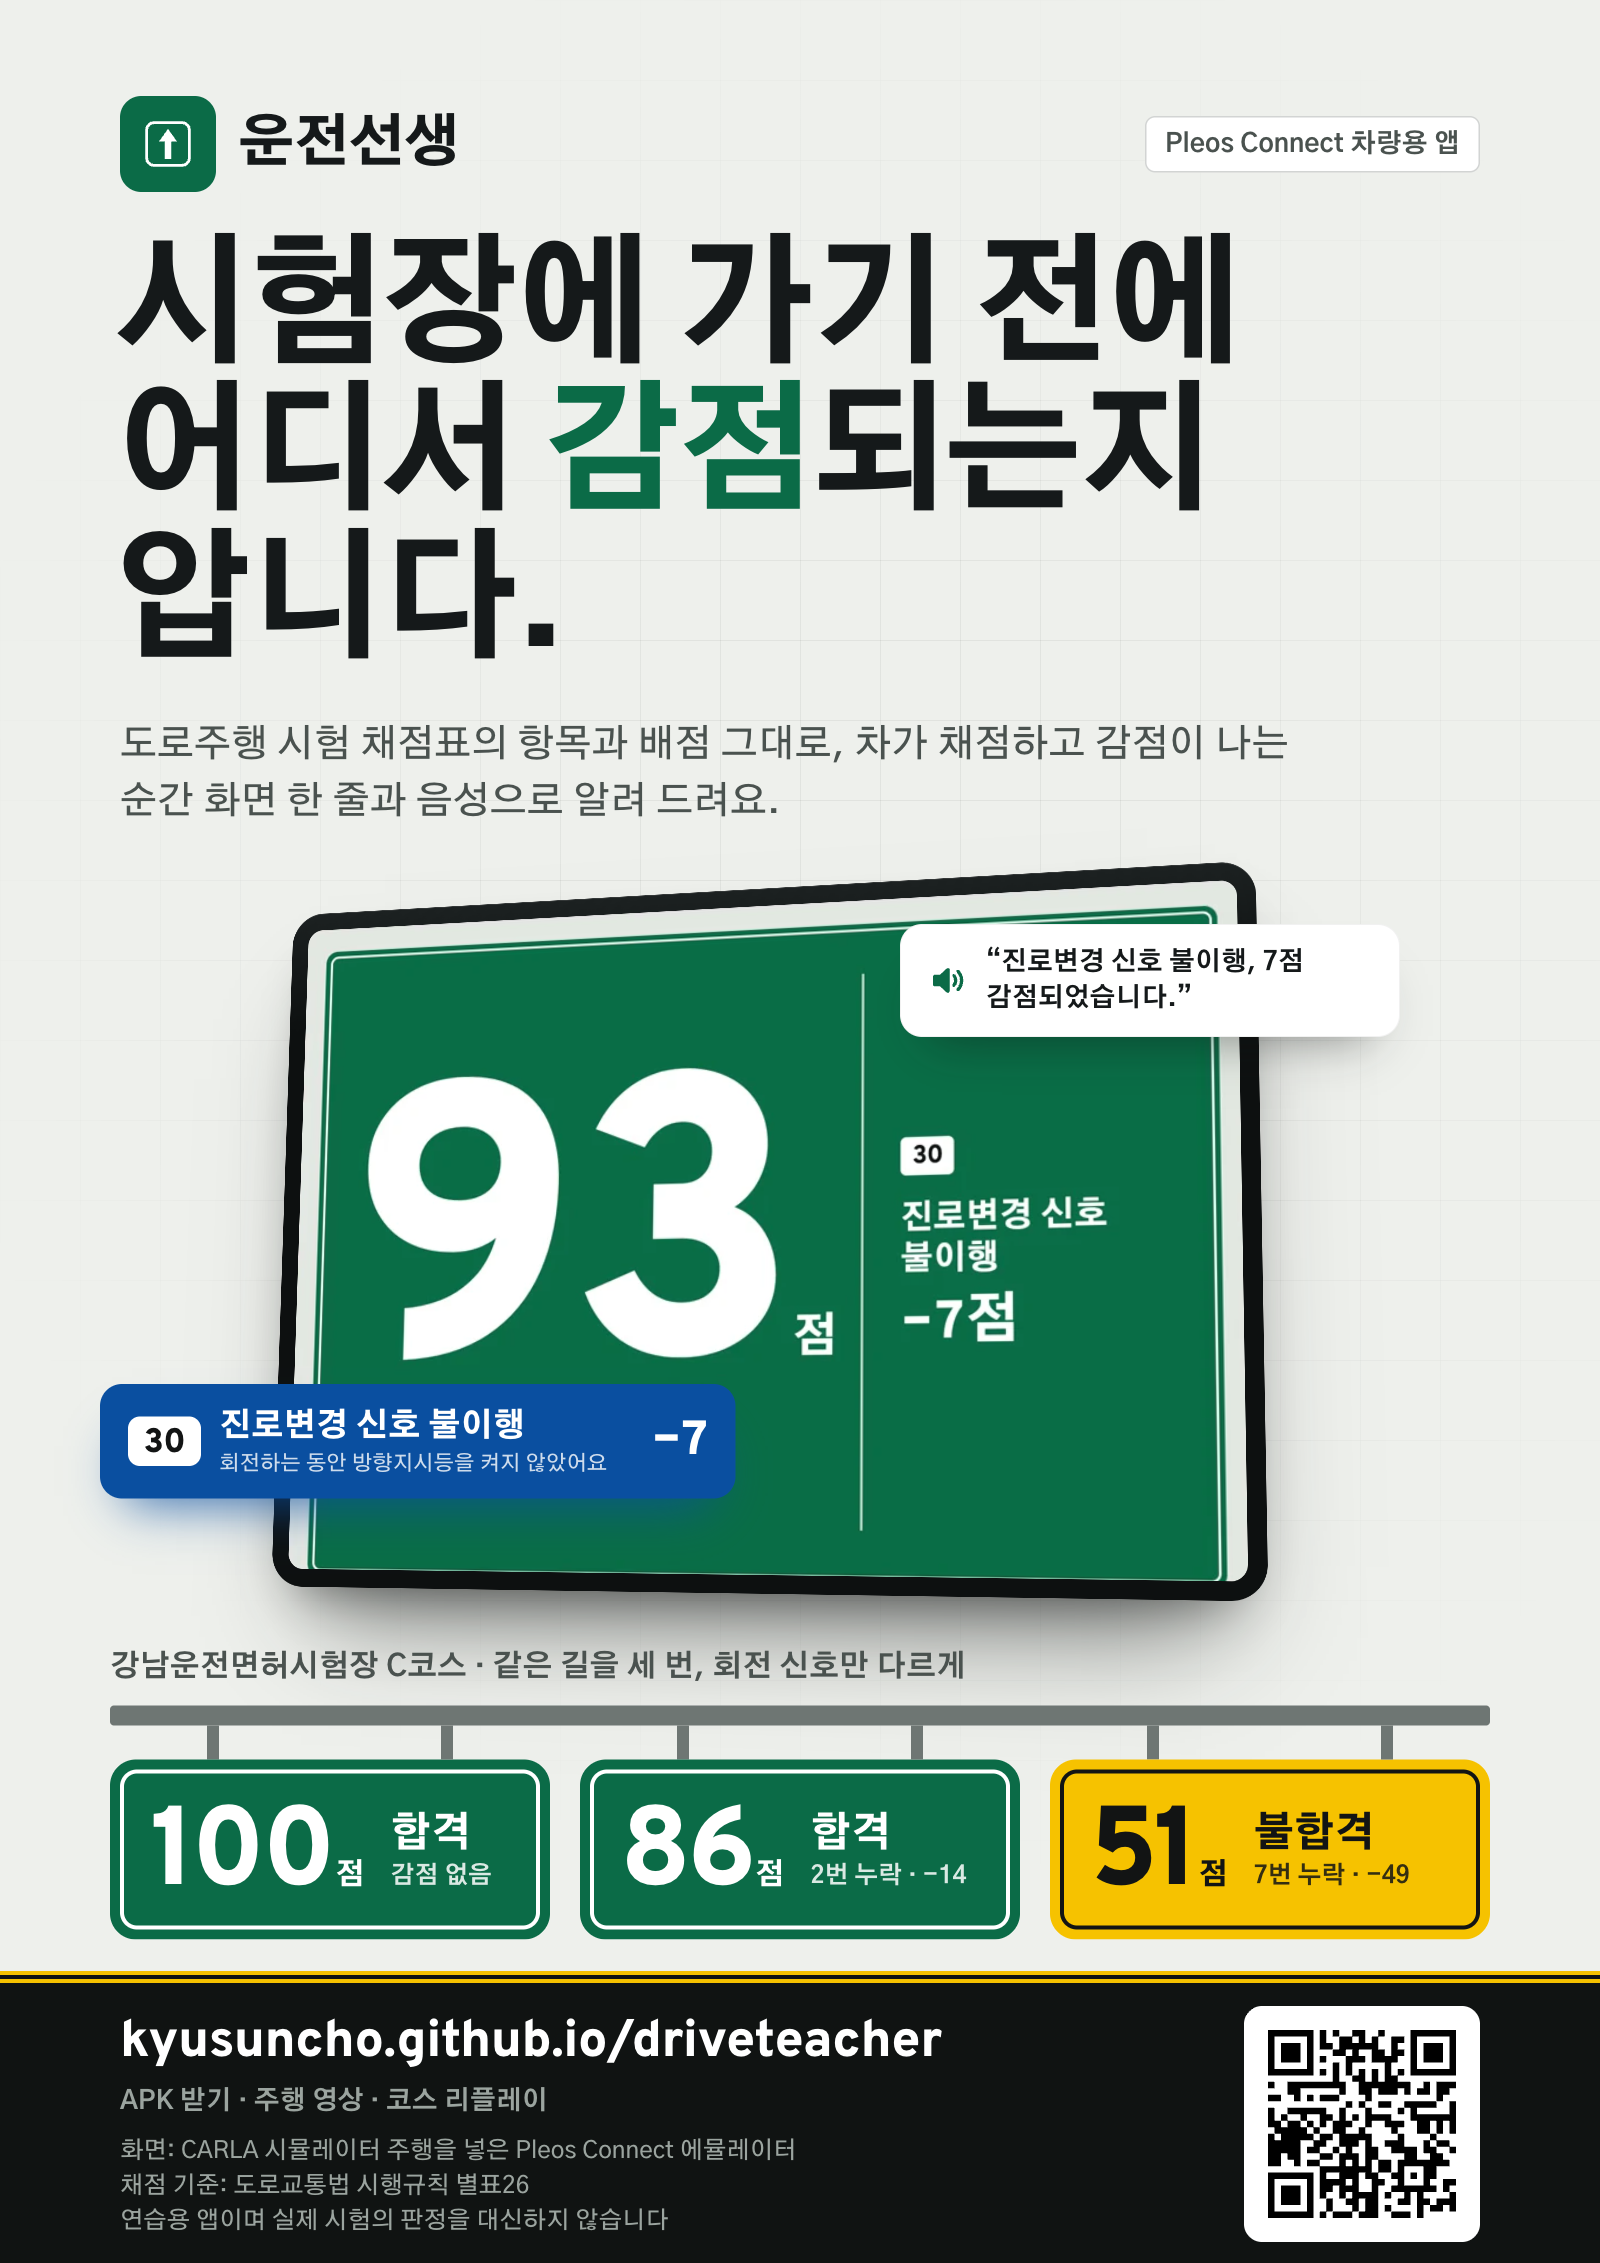
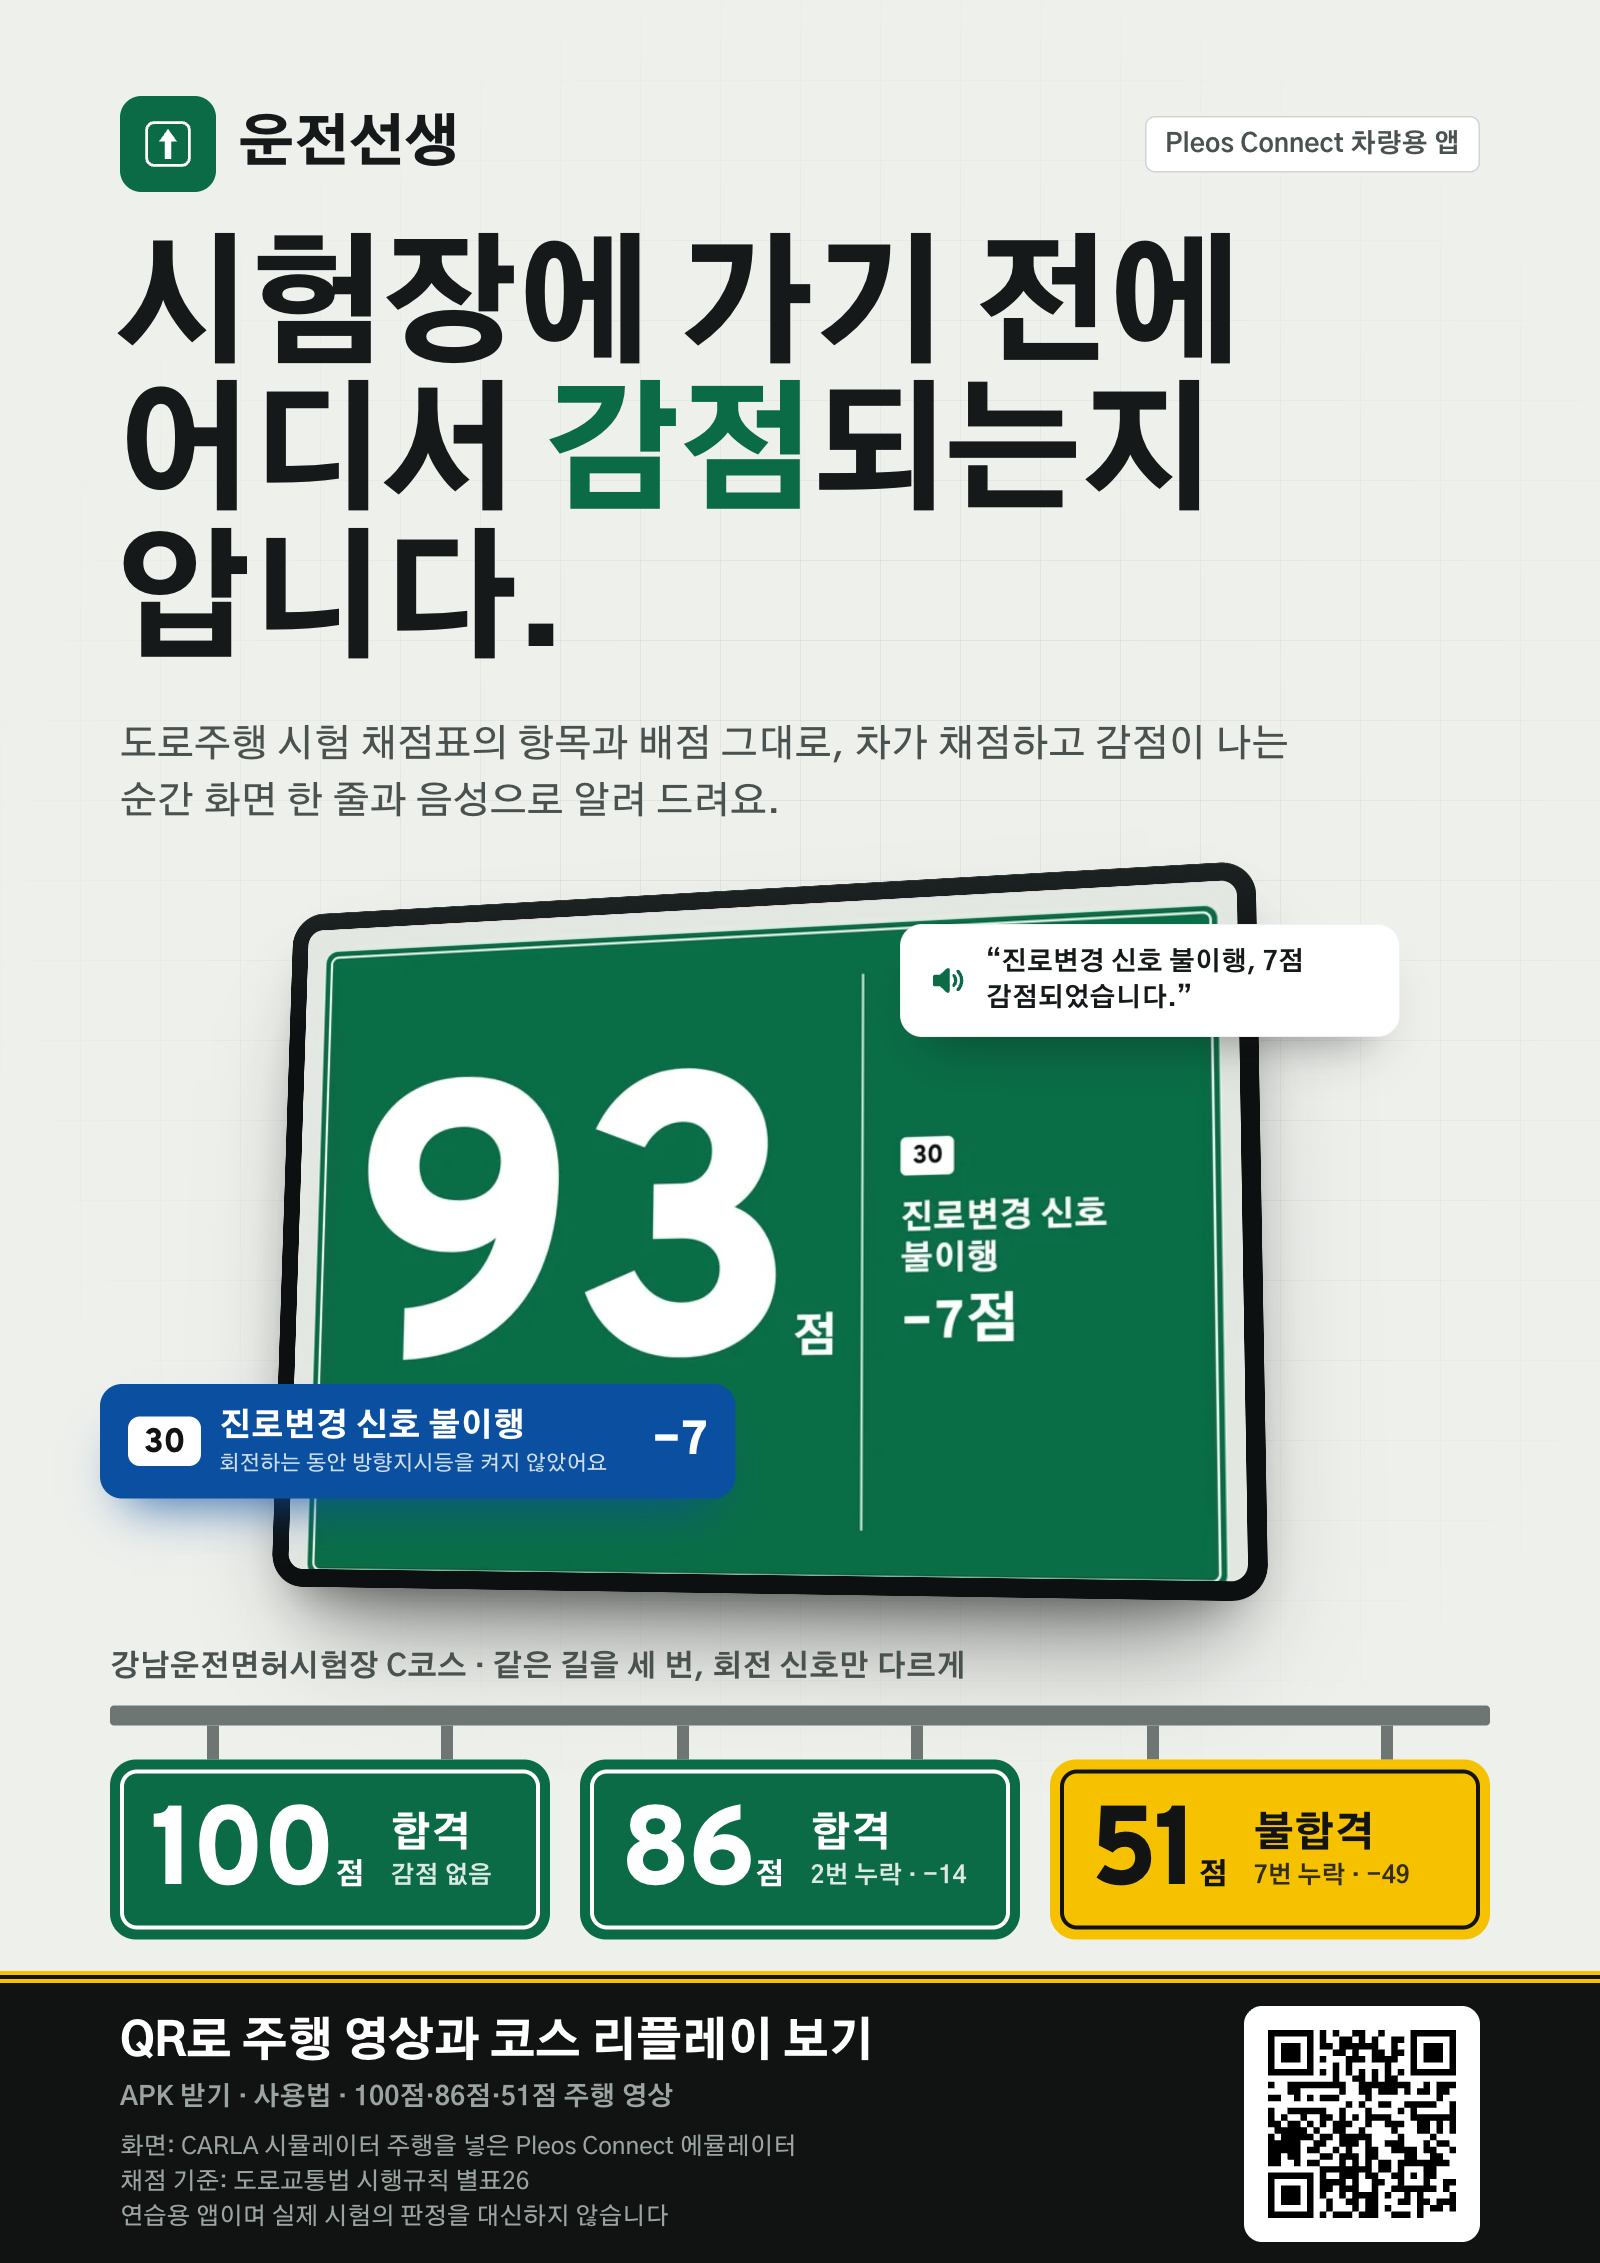
chore: leave the poster's link to its QR and drop the old README image
The portrait poster no longer prints the page address; the QR carries it.
driveteacher-summary-poster.png was the README image the banner replaced.

Changed region(s): [[0.0625, 0.8661, 0.5938, 0.9898]]

diff --git a/site/poster/poster.html b/site/poster/poster.html
@@ -93,7 +93,7 @@
     .art--portrait .gsign__verdict { font-size: 40px; }
     .art--portrait .gsign__note { font-size: 24px; margin-top: 2px; }
     .art--portrait .road { height: 292px; display: flex; align-items: center; gap: 48px; padding: 14px 120px 0; }
-    .art--portrait .road__text strong { display: block; font-family: var(--font-num); font-weight: 800; font-size: 52px; letter-spacing: -0.01em; color: #fff; }
+    .art--portrait .road__text strong { display: block; font-weight: 800; font-size: 46px; letter-spacing: -0.02em; color: #fff; }
     .art--portrait .road__text span { display: block; margin-top: 10px; font-size: 26px; font-weight: 700; color: var(--asphalt-ink-muted); }
     .art--portrait .road__fine { margin: 16px 0 0; font-size: 24px; line-height: 1.45; color: var(--asphalt-ink-muted); max-width: 1000px; }
     .art--portrait .qr { flex: none; margin-left: auto; width: 236px; padding: 24px; }
@@ -147,7 +147,7 @@
       </div>
     </div>
     <div class="road">
-      <div class="road__text"><strong>kyusuncho.github.io/driveteacher</strong><span>APK 받기 · 주행 영상 · 코스 리플레이</span>
+      <div class="road__text"><strong>QR로 주행 영상과 코스 리플레이 보기</strong><span>APK 받기 · 사용법 · 100점·86점·51점 주행 영상</span>
         <p class="road__fine">화면: CARLA 시뮬레이터 주행을 넣은 Pleos Connect 에뮬레이터<br>채점 기준: 도로교통법 시행규칙 별표26<br>연습용 앱이며 실제 시험의 판정을 대신하지 않습니다</p></div>
       <div class="qr" data-qr="https://kyusuncho.github.io/driveteacher/"></div>
     </div>
